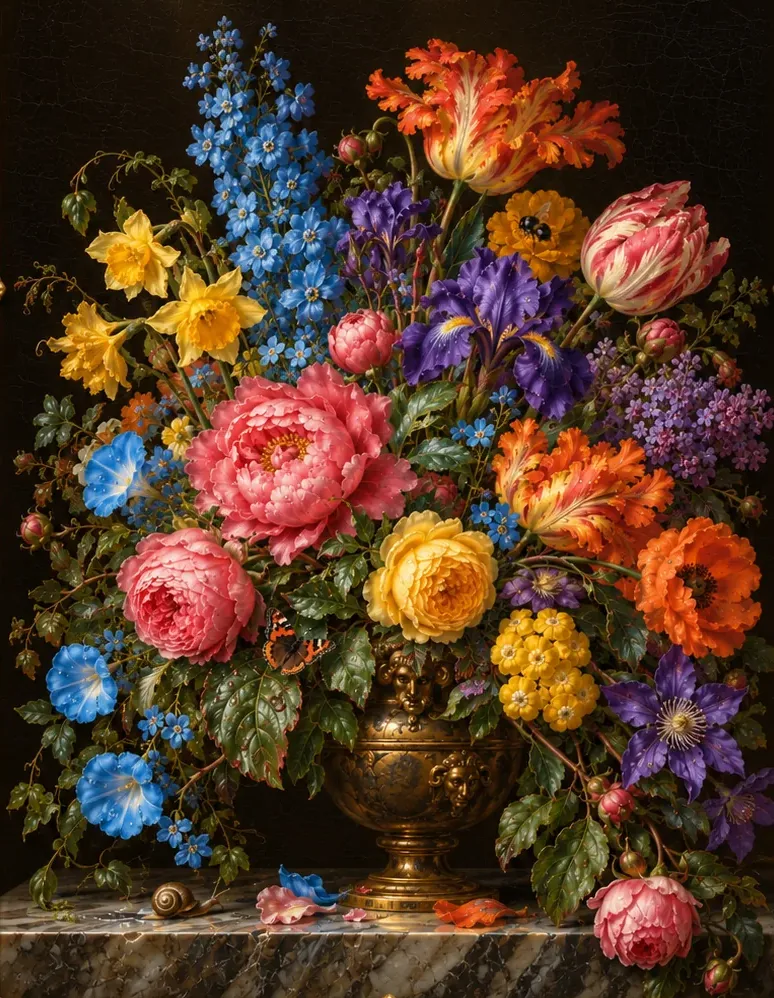
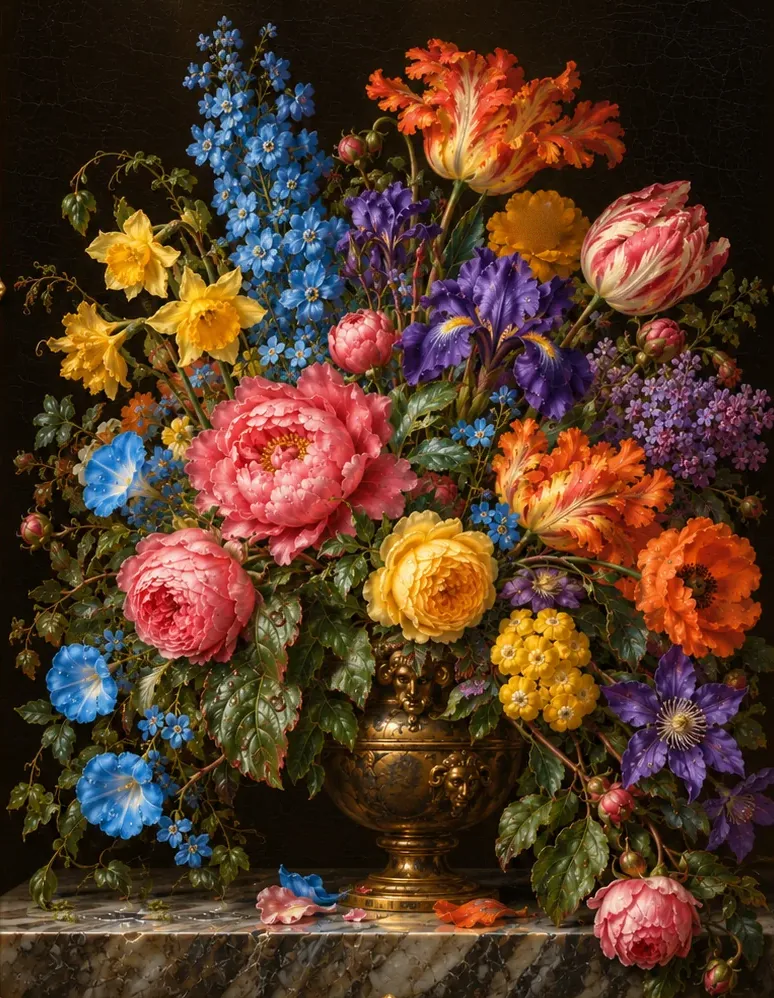
Masterverket: biet, fjärilen och snigeln lever
Djuren är målade ur dukbilderna (biet med utfyllnad, fjärilen och snigeln
med kloning från intilliggande blad och marmor) och ritas som egna bilder
ovanpå. Biet flyger rundor mellan blommorna, fjärilen fäller vingarna och
fladdrar undan när pekaren kommer nära, snigeln kryper längs hyllan och
stannar för pekaren. Pausat eller minskad rörelse: de sitter stilla på
sina platser i målningen.

Claude-Session: https://claude.ai/code/session_01LeSnNtK4HWJbbgdQwaRbmK

Changed region(s): [[0.3101, 0.5902, 0.4651, 0.7144], [0.186, 0.8697, 0.3101, 0.9319], [0.6512, 0.1864, 0.7442, 0.2485]]

diff --git a/src/components/masterverket-djur.ts b/src/components/masterverket-djur.ts
@@ -1,0 +1,214 @@
+/**
+ * Djuren i startsidans målning (Masterverket.tsx): biet, fjärilen och snigeln är målade ur
+ * dukbilderna och ritas här som egna bilder ovanpå, så att de kan röra sig.
+ * - Biet surrar på sin blomma, flyger en runda mellan blommorna och landar igen.
+ * - Fjärilen fäller vingarna sakta och fladdrar till en annan blomma när pekaren kommer nära.
+ * - Snigeln kryper fram och tillbaka på marmorhyllan och stannar när pekaren kommer nära.
+ * Alla lägen är andelar av dukbilden, så djuren sitter rätt i alla skärmstorlekar.
+ */
+
+type Punkt = readonly [number, number];
+type Lage = "bred" | "smal";
+
+/** Djurens platser i målningarna (andel av dukbilden) och storlek (andel av dukens bredd). */
+const DJUR: Record<"bi" | "fjaril" | "snigel", Record<Lage, { hem: Punkt; bredd: number }>> = {
+  bi: { bred: { hem: [0.828, 0.224], bredd: 0.034 }, smal: { hem: [0.693, 0.227], bredd: 0.07 } },
+  fjaril: { bred: { hem: [0.66, 0.679], bredd: 0.052 }, smal: { hem: [0.389, 0.64], bredd: 0.11 } },
+  snigel: {
+    bred: { hem: [0.518, 0.904], bredd: 0.062 },
+    smal: { hem: [0.243, 0.897], bredd: 0.11 },
+  },
+};
+
+/** Avstånd (px) där djuren märker pekaren. */
+const NARA = 90;
+/** Biets flygfart och fjärilens, i px per sekund. */
+const BI_FART = 230;
+const FJARIL_FART = 150;
+/** Snigelns fart (px/s) och hur långt den kryper åt varje håll (andel av dukens bredd). */
+const SNIGEL_FART = 5;
+const SNIGEL_STRACKA: Record<Lage, readonly [number, number]> = {
+  bred: [-0.02, 0.04],
+  smal: [-0.05, 0.08],
+};
+
+type Djur = {
+  el: HTMLImageElement;
+  fx: number;
+  fy: number;
+  rutt: Punkt[];
+  vanster: boolean;
+  fas: number;
+  nasta: number;
+  vila: number;
+};
+
+export function skapaDjur({
+  lager,
+  duk,
+  smal,
+  blommor,
+}: {
+  lager: HTMLElement;
+  duk: HTMLElement;
+  smal: MediaQueryList;
+  blommor: () => readonly (readonly Punkt[])[];
+}) {
+  const lage = (): Lage => (smal.matches ? "smal" : "bred");
+  const nytt = (namn: keyof typeof DJUR): Djur => {
+    const el = document.createElement("img");
+    el.src = `/masterverk/${namn}.webp`;
+    el.alt = "";
+    el.decoding = "async";
+    el.className = "tavla-djur";
+    lager.appendChild(el);
+    const [fx, fy] = DJUR[namn][lage()].hem;
+    return {
+      el,
+      fx,
+      fy,
+      rutt: [],
+      vanster: false,
+      fas: Math.random() * 6,
+      nasta: 4 + Math.random() * 4,
+      vila: 0,
+    };
+  };
+  const bi = nytt("bi");
+  const fjaril = nytt("fjaril");
+  const snigel = nytt("snigel");
+  let snigelMal = 1;
+
+  const slumpBlomma = (): Punkt => {
+    const alla = blommor().flat();
+    return alla[Math.floor(Math.random() * alla.length)] ?? DJUR.bi[lage()].hem;
+  };
+
+  // Flytta djuret mot nästa punkt i rutten med en fart i px/s. Sant när rutten är slut.
+  const flyg = (dj: Djur, d: DOMRect, fart: number, dt: number) => {
+    const mal = dj.rutt[0];
+    if (!mal) return true;
+    const dx = (mal[0] - dj.fx) * d.width;
+    const dy = (mal[1] - dj.fy) * d.height;
+    const avst = Math.hypot(dx, dy);
+    const steg = Math.min(avst, fart * dt);
+    if (avst > 0.5) {
+      dj.fx += ((dx / avst) * steg) / d.width;
+      dj.fy += ((dy / avst) * steg) / d.height;
+      if (Math.abs(dx) > 2) dj.vanster = dx < 0;
+    }
+    if (avst < 2) dj.rutt.shift();
+    return dj.rutt.length === 0;
+  };
+
+  const placera = (dj: Djur, d: DOMRect, l: DOMRect, bredd: number, extra: string) => {
+    const b = bredd * d.width;
+    dj.el.style.width = `${b.toFixed(1)}px`;
+    const x = d.left - l.left + dj.fx * d.width - b / 2;
+    const y =
+      d.top - l.top + dj.fy * d.height - (b * dj.el.naturalHeight) / (dj.el.naturalWidth || 1) / 2;
+    dj.el.style.transform = `translate3d(${x.toFixed(1)}px, ${y.toFixed(1)}px, 0) scaleX(${dj.vanster ? -1 : 1}) ${extra}`;
+  };
+
+  const nara = (dj: Djur, d: DOMRect, pekare: { x: number; y: number } | null) =>
+    pekare !== null &&
+    Math.hypot(d.left + dj.fx * d.width - pekare.x, d.top + dj.fy * d.height - pekare.y) < NARA;
+
+  /** Ett steg i animationen. `pekare` är i klientkoordinater. */
+  const uppdatera = (dt: number, tid: number, pekare: { x: number; y: number } | null) => {
+    const d = duk.getBoundingClientRect();
+    const l = lager.getBoundingClientRect();
+    const m = lage();
+
+    // Biet: surrar på stället, flyger en runda med jämna mellanrum eller när pekaren kommer nära.
+    bi.nasta -= dt;
+    if (!bi.rutt.length && (bi.nasta <= 0 || nara(bi, d, pekare))) {
+      bi.rutt = [slumpBlomma(), slumpBlomma(), slumpBlomma(), DJUR.bi[m].hem];
+      bi.nasta = 7 + Math.random() * 6;
+    }
+    const biHemma = flyg(bi, d, BI_FART, dt);
+    const surr = biHemma ? 0.6 : 1.6;
+    // I luften gungar biet upp och ner; vingsurret är ett snabbt litet darr.
+    const gungar = biHemma ? 0 : Math.sin(tid * 5) * 0.012 * d.height;
+    const darr = Math.sin(tid * 55) * surr + gungar;
+    placera(
+      bi,
+      d,
+      l,
+      DJUR.bi[m].bredd,
+      `rotate(${(Math.sin(tid * 70) * 2.5 * surr).toFixed(1)}deg) translateY(${darr.toFixed(1)}px)`,
+    );
+
+    // Fjärilen: vingarna fälls sakta när den sitter och snabbt när den flyger.
+    fjaril.nasta -= dt;
+    if (!fjaril.rutt.length && nara(fjaril, d, pekare)) {
+      fjaril.rutt = [slumpBlomma()];
+      fjaril.vila = 6 + Math.random() * 5;
+    } else if (!fjaril.rutt.length && fjaril.nasta <= 0) {
+      const hem = DJUR.fjaril[m].hem;
+      const hemma = Math.hypot(fjaril.fx - hem[0], fjaril.fy - hem[1]) < 0.01;
+      fjaril.rutt = [hemma ? slumpBlomma() : hem];
+      fjaril.nasta = 10 + Math.random() * 8;
+    }
+    const fjarilSitter = flyg(fjaril, d, FJARIL_FART, dt);
+    fjaril.fas += dt * (fjarilSitter ? 1.4 : 16);
+    const vinge = fjarilSitter
+      ? 0.62 + 0.38 * (0.5 + 0.5 * Math.cos(fjaril.fas))
+      : 0.2 + 0.8 * Math.abs(Math.cos(fjaril.fas));
+    const fladder = fjarilSitter ? 0 : Math.sin(fjaril.fas * 0.35) * 6;
+    placera(
+      fjaril,
+      d,
+      l,
+      DJUR.fjaril[m].bredd,
+      `translateY(${fladder.toFixed(1)}px) scaleX(${vinge.toFixed(3)})`,
+    );
+
+    // Snigeln: kryper sakta längs hyllan och stannar när pekaren är nära.
+    const sh = DJUR.snigel[m].hem;
+    const [min, max] = SNIGEL_STRACKA[m];
+    if (!nara(snigel, d, pekare)) {
+      const mal = sh[0] + (snigelMal > 0 ? max : min);
+      const dx = (mal - snigel.fx) * d.width;
+      if (Math.abs(dx) < 1) snigelMal = -snigelMal;
+      else {
+        snigel.fx += (Math.sign(dx) * Math.min(Math.abs(dx), SNIGEL_FART * dt)) / d.width;
+        snigel.vanster = dx < 0;
+      }
+      snigel.fas += dt * 2.2;
+    }
+    snigel.fy = sh[1];
+    placera(
+      snigel,
+      d,
+      l,
+      DJUR.snigel[m].bredd,
+      `scaleX(${(1 + Math.sin(snigel.fas) * 0.035).toFixed(3)})`,
+    );
+  };
+
+  /** Pausat eller minskad rörelse: alla djur sitter stilla på sina platser i målningen. */
+  const stillbild = () => {
+    const m = lage();
+    for (const [dj, namn] of [
+      [bi, "bi"],
+      [fjaril, "fjaril"],
+      [snigel, "snigel"],
+    ] as const) {
+      dj.rutt = [];
+      [dj.fx, dj.fy] = DJUR[namn][m].hem;
+      dj.vanster = false;
+    }
+    const d = duk.getBoundingClientRect();
+    const l = lager.getBoundingClientRect();
+    placera(bi, d, l, DJUR.bi[m].bredd, "");
+    placera(fjaril, d, l, DJUR.fjaril[m].bredd, "");
+    placera(snigel, d, l, DJUR.snigel[m].bredd, "");
+  };
+
+  const taBort = () => {
+    for (const dj of [bi, fjaril, snigel]) dj.el.remove();
+  };
+
+  return { uppdatera, stillbild, taBort };
+}

diff --git a/src/components/Masterverket.tsx b/src/components/Masterverket.tsx
@@ -3,6 +3,7 @@ import { Pause, Play } from "lucide-react";
 import { Fragment, useEffect, useRef, useState } from "react";
 import { BokaKnapp } from "@/components/Boka";
 import { Mark } from "@/components/Heading";
+import { skapaDjur } from "@/components/masterverket-djur";
 import { FORETAG } from "@/lib/foretag";
 import { kr, LAGSTA_MANADSPRIS } from "@/lib/priser";
 import { tjanstSokvag } from "@/lib/tjanster";
@@ -313,6 +314,13 @@ export function Masterverket() {
     let sistaSlapp = 0;
     let nastaAuto = 0;
     let pekare: { x: number; y: number } | null = null;
+    let pekareKlient: { x: number; y: number } | null = null;
+    const djur = skapaDjur({
+      lager,
+      duk,
+      smal,
+      blommor: () => BLOMMOR[smal.matches ? "smal" : "bred"],
+    });
     let bredd = 0;
     let hojd = 0;
     let skala = 1;
@@ -331,6 +339,7 @@ export function Masterverket() {
         return p;
       });
       ritaDamm(0);
+      djur.stillbild();
     };
 
     // Kornen föds på en slumpad plats inne i strålen (polärt från dukens övre vänstra hörn).
@@ -492,7 +501,10 @@ export function Masterverket() {
         if (!kvar) b.el.remove();
         return kvar;
       });
-      if (!stopp) ritaDamm(dt);
+      if (!stopp) {
+        ritaDamm(dt);
+        djur.uppdatera(dt, tid, pekareKlient);
+      } else djur.stillbild();
       // Pausat: bladen som redan faller får landa, sedan vilar loopen helt.
       if (!stopp || blad.length) vacka();
       else forra = 0;
@@ -511,6 +523,7 @@ export function Masterverket() {
     const onMove = (e: PointerEvent) => {
       const r = ljus.getBoundingClientRect();
       pekare = { x: e.clientX - r.left, y: e.clientY - r.top };
+      pekareKlient = { x: e.clientX, y: e.clientY };
       if (stilla.matches) return;
       if (sistaX !== null) vind = Math.max(-1, Math.min(1, vind + (e.clientX - sistaX) / 900));
       sistaX = e.clientX;
@@ -523,6 +536,11 @@ export function Masterverket() {
     };
     const onDown = (e: PointerEvent) => {
       if (stilla.matches || (e.target instanceof Element && e.target.closest("a, button"))) return;
+      // Pekskärm: ett tryck nära ett djur skrämmer det en kort stund, som en mus som passerar.
+      if (e.pointerType !== "mouse") {
+        pekareKlient = { x: e.clientX, y: e.clientY };
+        window.setTimeout(() => (pekareKlient = null), 700);
+      }
       if (inomBuketten(e.clientX, e.clientY)) {
         slapp(e.clientX, e.clientY);
         vacka();
@@ -531,6 +549,7 @@ export function Masterverket() {
     const onLeave = () => {
       sistaX = null;
       pekare = null;
+      pekareKlient = null;
     };
     const onFlik = () => (document.visibilityState === "visible" ? vacka() : stanna());
     const onStilla = () => {
@@ -570,6 +589,7 @@ export function Masterverket() {
       stilla.removeEventListener("change", onStilla);
       smal.removeEventListener("change", matLjus);
       for (const b of blad) b.el.remove();
+      djur.taBort();
       blad = [];
     };
   }, []);

diff --git a/src/styles.css b/src/styles.css
@@ -545,6 +545,15 @@
   perspective: 700px;
   pointer-events: none;
 }
+.tavla-djur {
+  position: absolute;
+  top: 0;
+  left: 0;
+  max-width: none;
+  height: auto;
+  will-change: transform;
+  filter: drop-shadow(0 3px 3px rgb(20 12 4 / 0.35));
+}
 .tavla-kronblad {
   position: absolute;
   top: 0;
@@ -747,7 +756,7 @@ main:has(.fyr-panel) + footer > div {
     -webkit-mask-image: none;
     mask-image: none;
   }
-  .tavla-blad,
+  /* Lagret med djuren syns ändå: de sitter stilla på sina platser i målningen. */
   .tavla-paus {
     display: none;
   }
